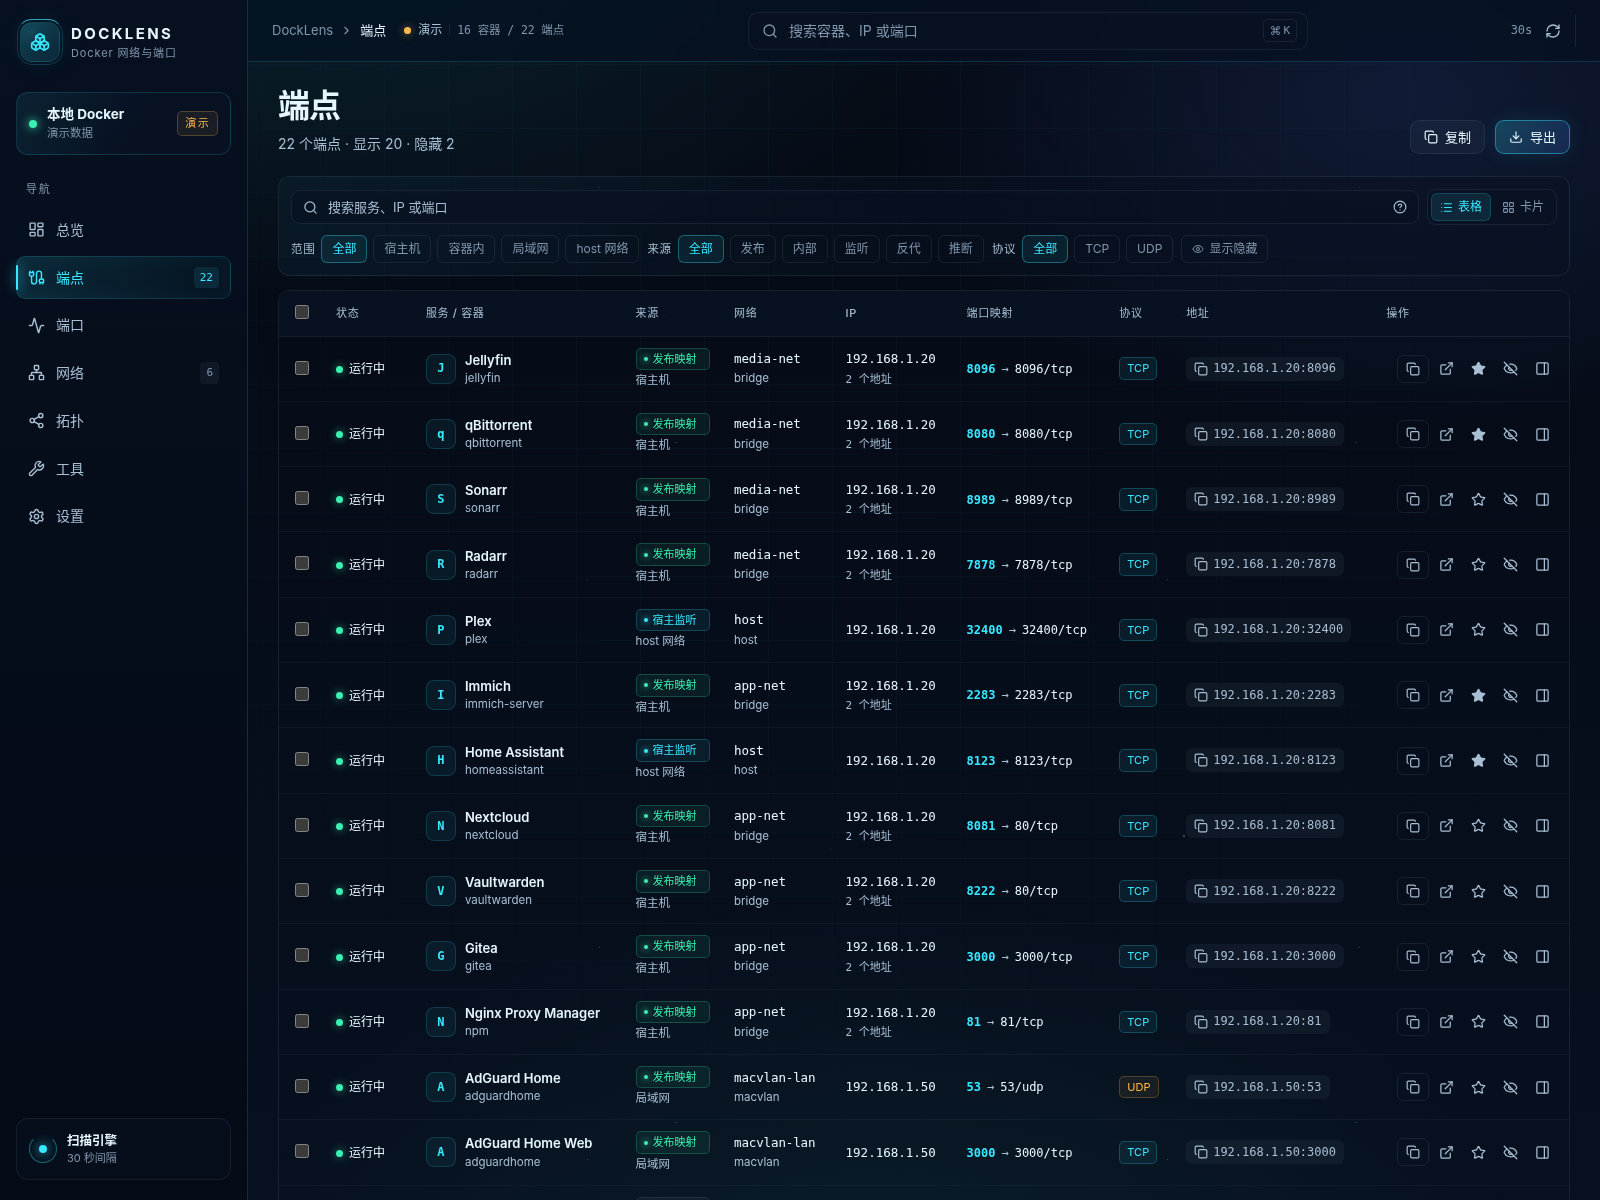
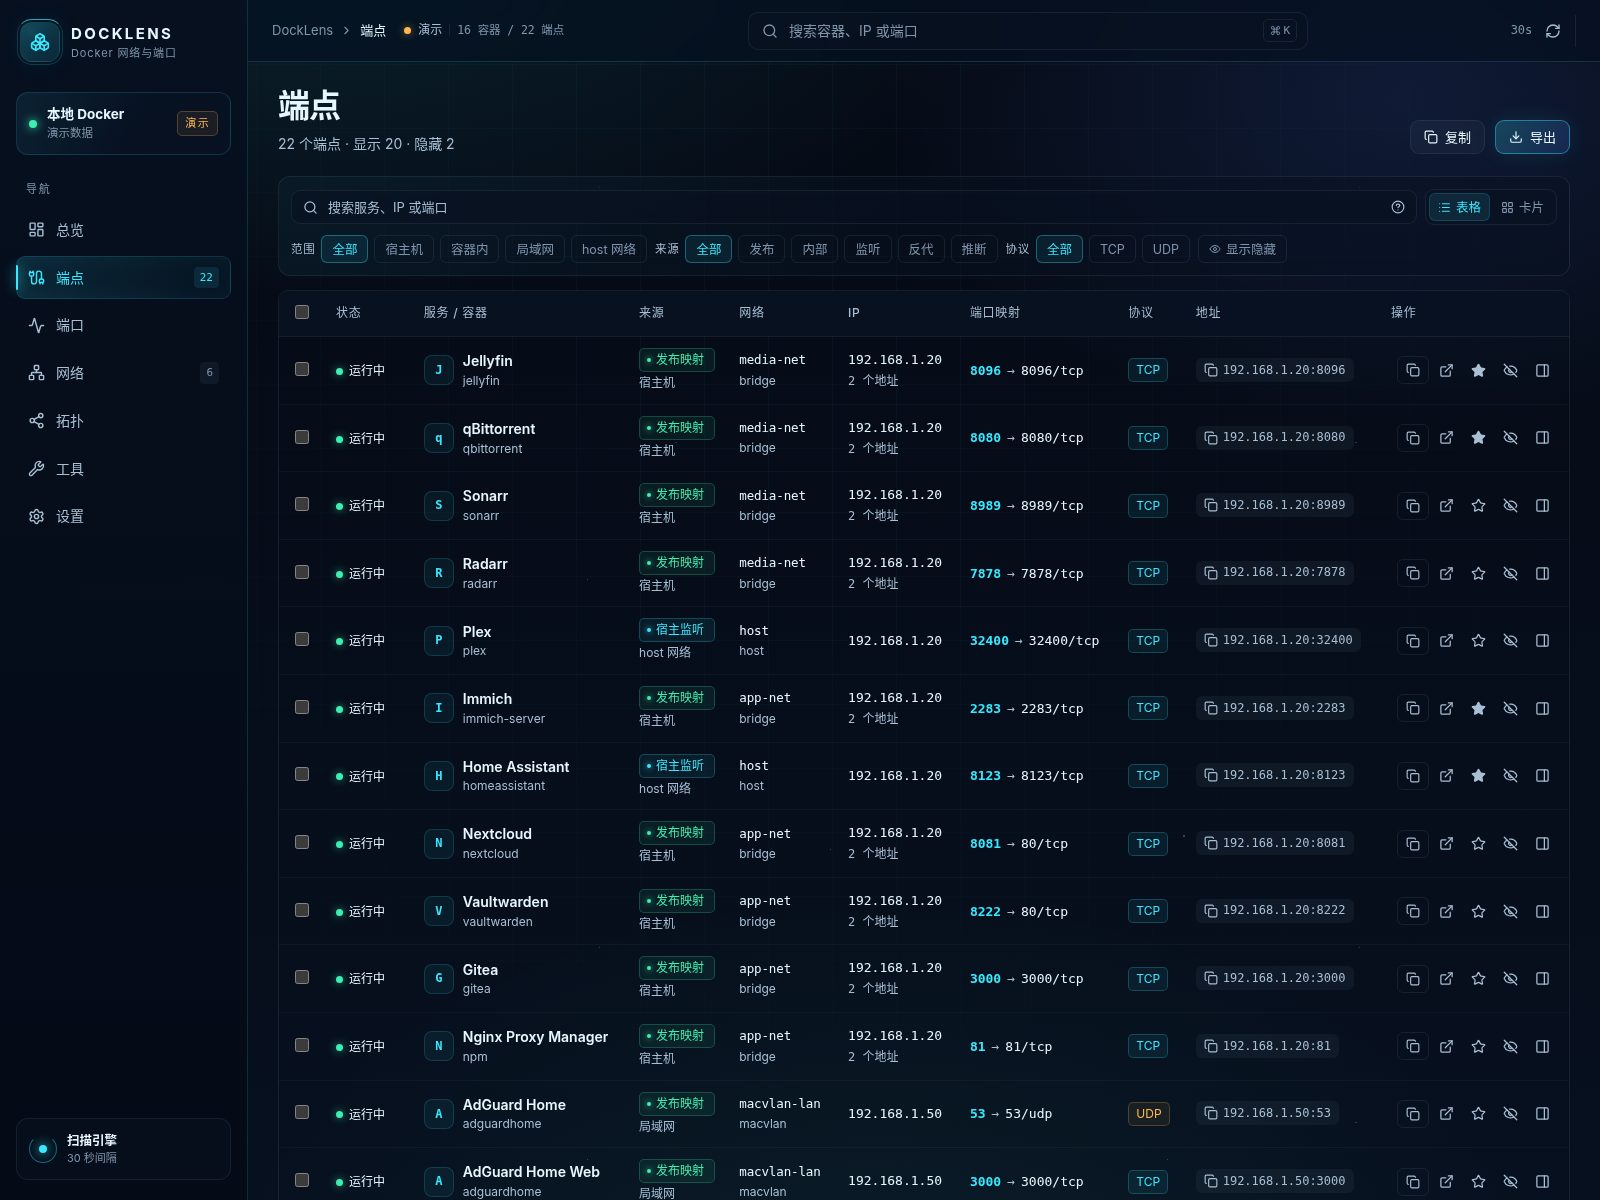
fix: refine conflicts, network selection and readability

diff --git a/web/src/components/networks/NetworkCard.tsx b/web/src/components/networks/NetworkCard.tsx
@@ -35,6 +35,17 @@ export function NetworkCard({ network, selected, onSelect }: NetworkCardProps) {
       glow={selected ? "cyan" : network.warning ? "danger" : "none"}
       interactive
       as="article"
+      onClick={onSelect}
+      role="button"
+      tabIndex={0}
+      ariaPressed={selected}
+      ariaLabel={`${network.name}，${selected ? "当前网络" : "点击选择"}`}
+      onKeyDown={(event) => {
+        if (event.key === "Enter" || event.key === " ") {
+          event.preventDefault();
+          onSelect();
+        }
+      }}
     >
       <div className="net-card-head">
         <div className="net-card-name">
@@ -47,6 +58,7 @@ export function NetworkCard({ network, selected, onSelect }: NetworkCardProps) {
       </div>
 
       <div className="net-card-flags">
+        {selected && <Badge tone="cyan" dot>当前</Badge>}
         {network.internal && <Badge tone="amber">内部网络</Badge>}
         {network.warning && <Badge tone="red">子网重叠</Badge>}
         {network.ipv6 && <Badge tone="blue">IPv6</Badge>}
@@ -94,16 +106,6 @@ export function NetworkCard({ network, selected, onSelect }: NetworkCardProps) {
         </div>
         <ProgressBar value={network.utilization} tone={tone} />
       </div>
-
-      <button
-        type="button"
-        className={`net-card-select ${selected ? "is-active" : ""}`}
-        aria-pressed={selected}
-        aria-label={selected ? `${network.name} 已选中` : `查看 ${network.name} 的 IP`}
-        onClick={onSelect}
-      >
-        {selected ? "已选中" : "查看 IP"}
-      </button>
     </HoloCard>
   );
 }

diff --git a/web/src/components/ui/HoloCard.tsx b/web/src/components/ui/HoloCard.tsx
@@ -1,4 +1,4 @@
-import type { ReactNode } from "react";
+import type { KeyboardEvent, ReactNode } from "react";
 import { classNames } from "../../lib/format";
 
 interface HoloCardProps {
@@ -7,6 +7,12 @@ interface HoloCardProps {
   glow?: "none" | "cyan" | "amber" | "danger" | "green";
   interactive?: boolean;
   as?: "div" | "section" | "article";
+  onClick?: () => void;
+  onKeyDown?: (event: KeyboardEvent<HTMLElement>) => void;
+  role?: string;
+  tabIndex?: number;
+  ariaPressed?: boolean;
+  ariaLabel?: string;
 }
 
 export function HoloCard({
@@ -15,6 +21,12 @@ export function HoloCard({
   glow = "none",
   interactive = false,
   as: Tag = "div",
+  onClick,
+  onKeyDown,
+  role,
+  tabIndex,
+  ariaPressed,
+  ariaLabel,
 }: HoloCardProps) {
   return (
     <Tag
@@ -24,6 +36,12 @@ export function HoloCard({
         interactive && "holo-card-interactive",
         className,
       )}
+      onClick={onClick}
+      onKeyDown={onKeyDown}
+      role={role}
+      tabIndex={tabIndex}
+      aria-pressed={ariaPressed}
+      aria-label={ariaLabel}
     >
       <span className="holo-corner holo-corner-tl" />
       <span className="holo-corner holo-corner-tr" />

diff --git a/web/src/components/networks/SubnetOverlap.tsx b/web/src/components/networks/SubnetOverlap.tsx
@@ -7,16 +7,21 @@ import { findOverlaps, relationLabel } from "./networkUtils";
 
 interface SubnetOverlapProps {
   networks: NetworkInfo[];
+  selected?: NetworkInfo;
 }
 
-export function SubnetOverlap({ networks }: SubnetOverlapProps) {
-  const pairs = findOverlaps(networks);
+export function SubnetOverlap({ networks, selected }: SubnetOverlapProps) {
+  const pairs = findOverlaps(networks).filter(
+    (pair) =>
+      !selected || pair.a.id === selected.id || pair.b.id === selected.id,
+  );
 
   return (
     <HoloCard className="net-overlap" as="section">
       <SectionHeader
         eyebrow="子网重叠"
         title="CIDR 关系"
+        subtitle={selected ? `与 ${selected.name} 相关` : undefined}
         action={<span className="net-overlap-count">{pairs.length} 组</span>}
       />
 

diff --git a/web/src/components/endpoint/endpoint.css b/web/src/components/endpoint/endpoint.css
@@ -864,3 +864,45 @@
     width: 42%;
   }
 }
+
+.ep-page .ep-table {
+  font-size: 13.5px;
+}
+
+.ep-page .ep-table th {
+  font-size: 12px;
+}
+
+.ep-page .ep-table td {
+  font-size: 13.5px;
+}
+
+.ep-page .ep-table .service-copy strong {
+  font-size: 14px;
+}
+
+.ep-page .ep-table .service-copy span,
+.ep-page .ep-table .ep-net-sub,
+.ep-page .ep-table .ep-scope-hint,
+.ep-page .ep-table .ip-secondary {
+  font-size: 12px;
+}
+
+.ep-page .ep-table .ip-primary {
+  font-size: 13px;
+}
+
+.ep-page .ep-table .port-map {
+  font-size: 13px;
+}
+
+.ep-page .ep-table .badge,
+.ep-page .ep-table .ep-status,
+.ep-page .ep-table .copy-btn-chip {
+  font-size: 12px;
+}
+
+.ep-page .chip,
+.ep-page .segmented button {
+  font-size: 12.5px;
+}

diff --git a/web/src/lib/conflicts.ts b/web/src/lib/conflicts.ts
@@ -78,6 +78,7 @@ export function findPortConflicts(endpoints: Endpoint[]): PortConflict[] {
 
   for (const endpoint of endpoints) {
     if (!isActiveHostPortEndpoint(endpoint)) continue;
+    if (endpoint.source === "INFERRED" || endpoint.source === "PROXY_LABEL") continue;
     if (endpoint.protocol !== "tcp" && endpoint.protocol !== "udp") continue;
     const key = `${endpoint.port}/${endpoint.protocol}`;
     const group = groups.get(key);

diff --git a/web/src/components/ports/PortCheckPanel.tsx b/web/src/components/ports/PortCheckPanel.tsx
@@ -85,6 +85,8 @@ export function PortCheckPanel({ endpoints }: PortCheckPanelProps) {
       const portMatches = endpoints.filter(
         (endpoint) =>
           isActiveHostPortEndpoint(endpoint) &&
+          endpoint.source !== "INFERRED" &&
+          endpoint.source !== "PROXY_LABEL" &&
           endpoint.protocol === protocol &&
           endpoint.port === portNumber,
       );

diff --git a/web/src/components/ports/PortSummary.tsx b/web/src/components/ports/PortSummary.tsx
@@ -53,7 +53,7 @@ export function PortSummary({
   return (
     <div className="ports-summary" aria-label="端口概况">
       <HoloCard className="ports-summary-card" glow="cyan">
-        <div className="metric-label">已用</div>
+        <div className="metric-label">已知端口</div>
         <div className="metric-value">
           {data.usedTotal}
           <small>个</small>

diff --git a/web/src/pages/NetworksPage.tsx b/web/src/pages/NetworksPage.tsx
@@ -108,10 +108,9 @@ export function NetworksPage() {
 
         <aside className="net-detail-rail" aria-label="网络详情" ref={detailRailRef}>
           <NetworkDetail network={selected} />
+          <SubnetOverlap networks={networks} selected={selected} />
         </aside>
       </div>
-
-      <SubnetOverlap networks={networks} />
     </div>
   );
 }

diff --git a/web/src/components/networks/networks.css b/web/src/components/networks/networks.css
@@ -786,3 +786,12 @@
   color: var(--text-secondary);
   font-size: 12px;
 }
+
+.net-card {
+  cursor: pointer;
+}
+
+.net-card:focus-visible {
+  outline: 2px solid var(--border-active);
+  outline-offset: 2px;
+}

diff --git a/internal/collect/networks_test.go b/internal/collect/networks_test.go
@@ -41,3 +41,16 @@ func TestPortConflictsIgnoreInternalAndStopped(t *testing.T) {
 		t.Fatalf("expected one conflict warning, got %+v", warnings)
 	}
 }
+
+func TestPortConflictsIgnoreInferred(t *testing.T) {
+	endpoints := []model.Endpoint{
+		{Service: "qbittorrent", Container: "qbittorrent", Scope: model.ScopeHostNet, Source: model.SourceInferred, Status: model.StatusRunning, IP: "192.168.1.20", Port: 6881, Protocol: model.ProtocolTCP},
+		{Service: "qbittorrent-seed", Container: "qbittorrent-seed", Scope: model.ScopeHostNet, Source: model.SourceInferred, Status: model.StatusRunning, IP: "192.168.1.20", Port: 6881, Protocol: model.ProtocolTCP},
+		{Service: "qbittorrent", Container: "qbittorrent", Scope: model.ScopeHost, Source: model.SourcePublished, Status: model.StatusRunning, IP: "0.0.0.0", Port: 8080, Protocol: model.ProtocolTCP, AccessIPs: []model.AccessIP{{IP: "192.168.1.20"}}},
+		{Service: "nginx", Container: "nginx", Scope: model.ScopeHost, Source: model.SourceHostListener, Status: model.StatusRunning, IP: "0.0.0.0", Port: 8080, Protocol: model.ProtocolTCP, AccessIPs: []model.AccessIP{{IP: "192.168.1.20"}}},
+	}
+	warnings := portConflicts(endpoints)
+	if len(warnings) != 1 {
+		t.Fatalf("expected only the published/host-listener conflict, got %+v", warnings)
+	}
+}

diff --git a/internal/collect/networks.go b/internal/collect/networks.go
@@ -260,6 +260,9 @@ func portConflicts(endpoints []model.Endpoint) []model.Warning {
 		if endpoint.Scope != model.ScopeHost && endpoint.Scope != model.ScopeLAN && endpoint.Scope != model.ScopeHostNet && endpoint.Scope != model.ScopeLoopback {
 			continue
 		}
+		if endpoint.Source == model.SourceInferred || endpoint.Source == model.SourceProxyLabel {
+			continue
+		}
 		key := fmt.Sprintf("%d/%s", endpoint.Port, endpoint.Protocol)
 		groups[key] = append(groups[key], endpoint)
 	}
